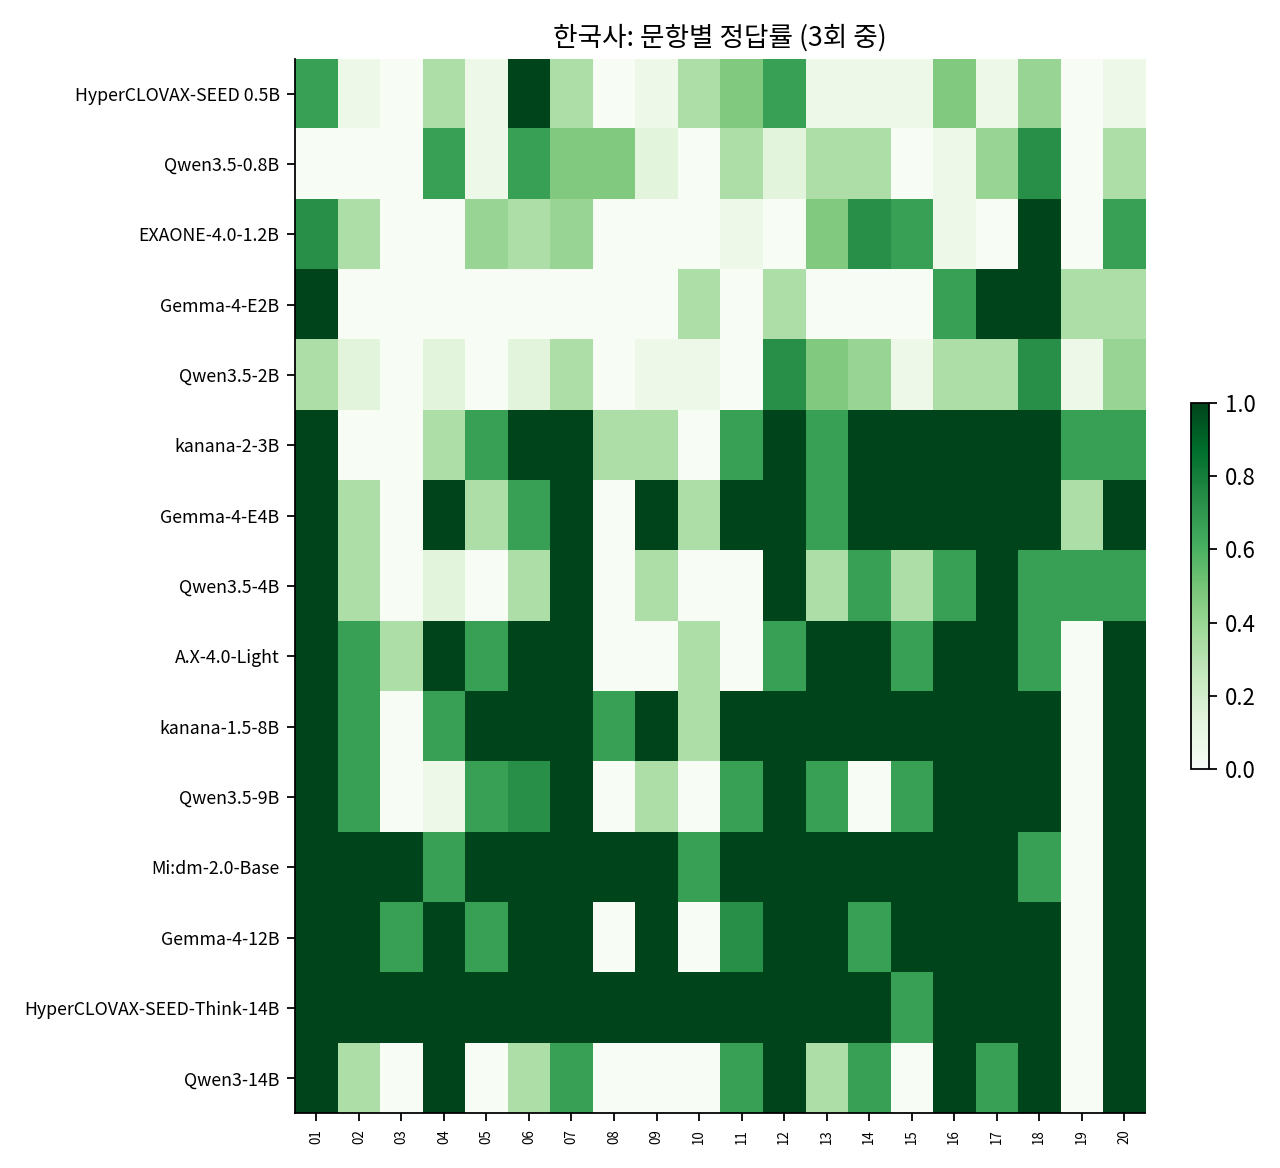
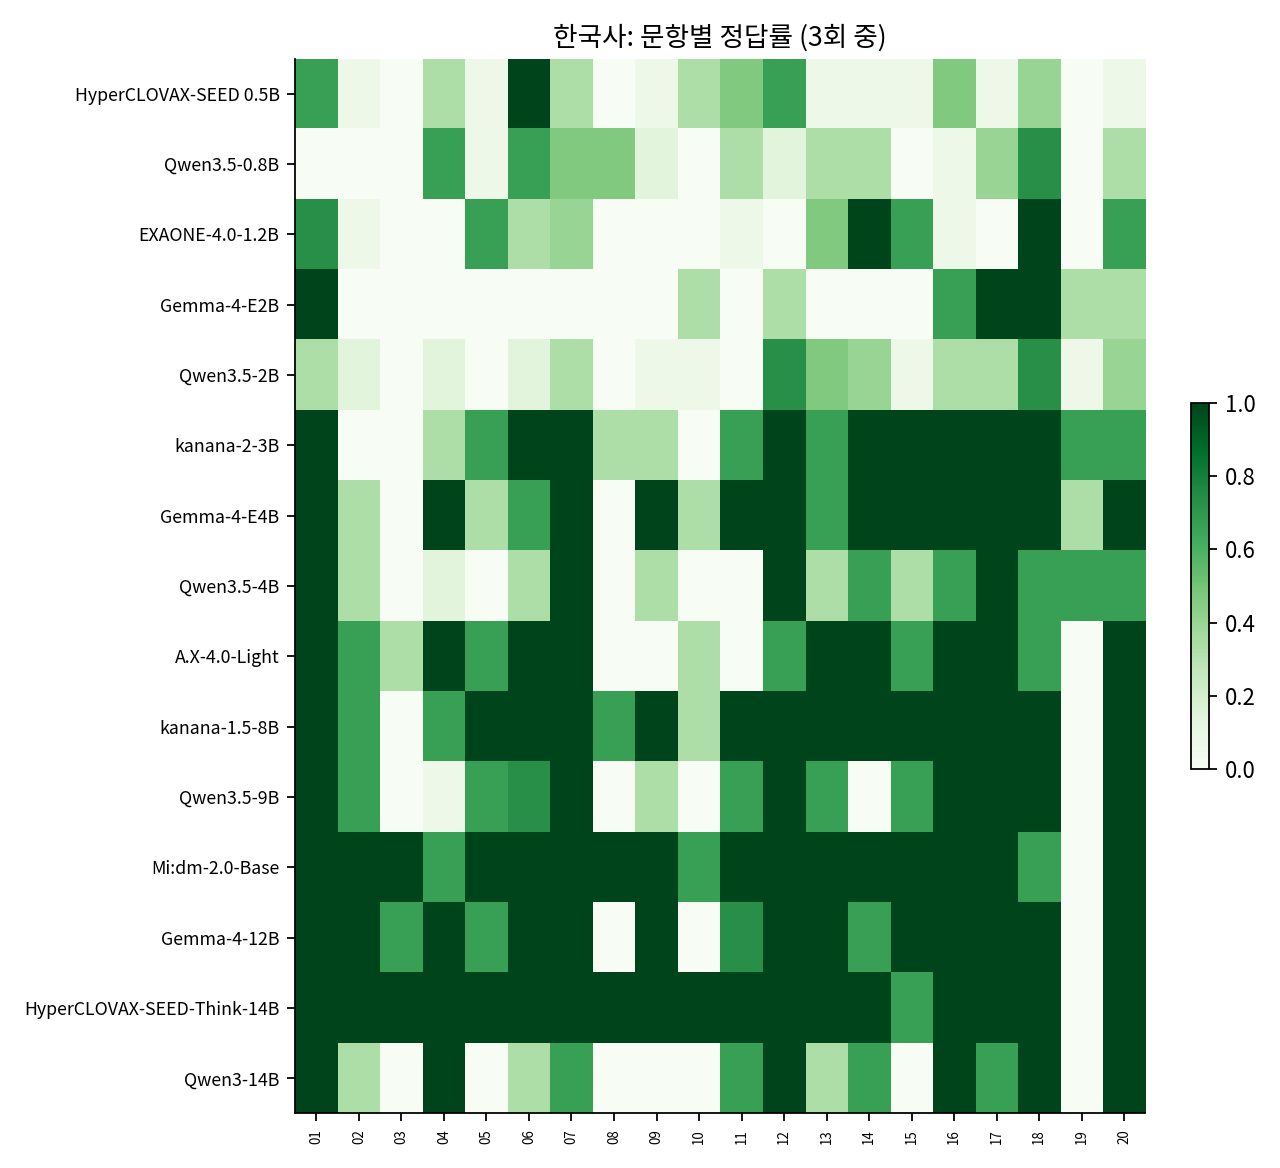
Update results (74 runs)

Changed region(s): [[0.6562, 0.1541, 0.7188, 0.2466], [0.3438, 0.1541, 0.4062, 0.2466], [0.25, 0.1541, 0.3125, 0.2466]]

diff --git a/README.md b/README.md
@@ -13,9 +13,9 @@
 - **수학**은 작은 모델도 잘 푼다. 4B 크기의 Gemma-4-E4B가 80점을 넘었다.
 - 시험지 맨 끝의 4점 단답형 고난도 문항(공통 21·22번, 선택 29·30번)은 모델 평균 정답률이 22%, 가장 잘 푼 모델도 67%에 그쳤다.
 - **국어가 수학보다 어렵다.** 2B 이상 모델 기준으로 국어 정답률이 수학보다 평균 11%p 낮다. 2,000–4,000자 길이의 지문을 읽고 선택지 사이의 미묘한 차이를 가려내는 일이 작은 모델에게는 계산보다 어렵다.
-- **국산 모델**: HyperCLOVAX-SEED 0.5B(국어 18점, 수학 19점, 영어 28점, 한국사 12점), EXAONE-4.0-1.2B(국어 31점, 수학 75점, 영어 63점, 한국사 15점), kanana-2-3B(국어 34점, 수학 39점, 영어 74점, 한국사 33점), A.X-4.0-Light(국어 49점, 수학 56점, 영어 83점, 한국사 32점), kanana-1.5-8B(국어 45점, 수학 42점, 영어 83점, 한국사 41점), Mi:dm-2.0-Base(국어 44점, 수학 54점, 영어 82점, 한국사 46점), HyperCLOVAX-SEED-Think-14B(국어 78점, 수학 79점, 영어 88점, 한국사 47점).
+- **국산 모델**: HyperCLOVAX-SEED 0.5B(국어 18점, 수학 19점, 영어 28점, 한국사 12점), EXAONE-4.0-1.2B(국어 31점, 수학 75점, 영어 63점, 한국사 16점), kanana-2-3B(국어 34점, 수학 39점, 영어 74점, 한국사 33점), A.X-4.0-Light(국어 49점, 수학 56점, 영어 83점, 한국사 32점), kanana-1.5-8B(국어 45점, 수학 42점, 영어 83점, 한국사 41점), Mi:dm-2.0-Base(국어 44점, 수학 54점, 영어 82점, 한국사 46점), HyperCLOVAX-SEED-Think-14B(국어 78점, 수학 79점, 영어 88점, 한국사 47점).
 
-> 마지막 업데이트: 2026-11-20 10:18 KST. 평가가 진행되는 동안 모델 하나가 끝날 때마다 이 페이지가 자동으로 갱신된다.
+> 마지막 업데이트: 2026-11-20 10:21 KST. 평가가 진행되는 동안 모델 하나가 끝날 때마다 이 페이지가 자동으로 갱신된다.
 
 ## 왜 소형 모델인가
 
@@ -31,7 +31,7 @@
 
 | 기기 등급 | 대략적인 기기 사양 | 4비트 가중치 크기 | 해당 모델 | 이 등급 최고 점수 (국어 / 수학 / 영어 / 한국사<sub>50점</sub>) |
 |---|---|---|---|---|
-| 보급형 스마트폰 | RAM 4–6GB | ≤1.5GB | HyperCLOVAX-SEED 0.5B, Qwen3.5-0.8B, EXAONE-4.0-1.2B, Qwen3.5-2B | 38 / 78 / 80 / 15 |
+| 보급형 스마트폰 | RAM 4–6GB | ≤1.5GB | HyperCLOVAX-SEED 0.5B, Qwen3.5-0.8B, EXAONE-4.0-1.2B, Qwen3.5-2B | 38 / 78 / 80 / 16 |
 | 중급 스마트폰 | RAM 8GB | 1.5–3.2GB | Gemma-4-E2B, kanana-2-3B, Gemma-4-E4B, Qwen3.5-4B | 77 / 90 / 93 / 37 |
 | 플래그십 스마트폰 | RAM 12–16GB | 3.2–6GB | A.X-4.0-Light, kanana-1.5-8B, Qwen3.5-9B | 88 / 93 / 91 / 41 |
 | 노트북·태블릿 | RAM 16GB 이상 | 6GB 이상 | Mi:dm-2.0-Base, Gemma-4-12B, HyperCLOVAX-SEED-Think-14B, Qwen3-14B | 92 / 93 / 94 / 47 |
@@ -90,7 +90,7 @@
 |---|---|---|---|---|---|---|---|---|---|---|---|---|---|---|---|
 | HyperCLOVAX-SEED 0.5B | 네이버 | 0.57 | 보급형 스마트폰 | 18.0 <sub>(13–25)</sub> | 18.0 <sub>(16–19)</sub> | 17.5 <sub>(14–21)</sub> | 21.3 <sub>(17–24)</sub> | 18.0 <sub>(15–21)</sub> | 28.1 <sub>(25–30)</sub> | 11.9 <sub>(8–16)</sub> | 17.7 <sub>(13–21)</sub> | 14.9 <sub>(11–19)</sub> | 10.6 <sub>(7–17)</sub> | 7.3 <sub>(6–10)</sub> | 7.3 <sub>(6–9)</sub> |
 | Qwen3.5-0.8B | 알리바바 | 0.8 | 보급형 스마트폰 | 24.4 <sub>(18–32)</sub> | 22.9 <sub>(20–28)</sub> | 36.5 <sub>(35–39)</sub> | 36.3 <sub>(33–39)</sub> | 33.5 <sub>(31–36)</sub> | 57.0 <sub>(53–62)</sub> | 13.5 <sub>(10–20)</sub> | 14.9 <sub>(9–22)</sub> | 15.7 <sub>(12–19)</sub> | 13.3 <sub>(9–17)</sub> | 12.1 <sub>(7–16)</sub> | 9.1 <sub>(7–11)</sub> |
-| EXAONE-4.0-1.2B | LG AI연구원 | 1.28 | 보급형 스마트폰 | 31.2 <sub>(28–35)</sub> | 31.5 <sub>(27–35)</sub> | 77.6 <sub>(70–82)</sub> | 72.9 <sub>(63–82)</sub> | 73.5 <sub>(71–78)</sub> | 62.7 <sub>(61–64)</sub> | 15.0 <sub>(13–18)</sub> | 19.9 <sub>(11–28)</sub> | 7.3 <sub>(3–10)</sub> | 15.1 <sub>(14–17)</sub> | 13.7 <sub>(7–21)</sub> | 13.5 <sub>(12–16)</sub> |
+| EXAONE-4.0-1.2B | LG AI연구원 | 1.28 | 보급형 스마트폰 | 31.2 <sub>(28–35)</sub> | 31.5 <sub>(27–35)</sub> | 77.6 <sub>(70–82)</sub> | 72.9 <sub>(63–82)</sub> | 73.5 <sub>(71–78)</sub> | 62.7 <sub>(61–64)</sub> | 16.1 <sub>(13–20)</sub> | 21.7 <sub>(14–28)</sub> | 6.8 <sub>(3–9)</sub> | 14.3 <sub>(12–17)</sub> | 13.7 <sub>(7–21)</sub> | 13.4 <sub>(10–16)</sub> |
 | Gemma-4-E2B | 구글 | 2.0 | 중급 스마트폰 | 67.9 <sub>(64–71)</sub> | 61.2 <sub>(59–63)</sub> | 75.0 <sub>(72–80)</sub> | 73.0 <sub>(69–77)</sub> | 76.3 <sub>(76–77)</sub> | 79.9 <sub>(78–83)</sub> | 12.3 <sub>(10–14)</sub> | 28.3 <sub>(22–33)</sub> | 12.3 <sub>(9–14)</sub> | 24.0 <sub>(21–27)</sub> | 12.7 <sub>(12–14)</sub> | 10.0 <sub>(9–12)</sub> |
 | Qwen3.5-2B | 알리바바 | 2.0 | 보급형 스마트폰 | 33.6 <sub>(31–36)</sub> | 37.7 <sub>(34–42)</sub> | 64.7 <sub>(63–66)</sub> | 59.9 <sub>(56–65)</sub> | 62.1 <sub>(61–63)</sub> | 79.7 <sub>(78–81)</sub> | 11.7 <sub>(10–14)</sub> | 20.3 <sub>(17–23)</sub> | 15.7 <sub>(14–17)</sub> | 15.6 <sub>(14–17)</sub> | 13.1 <sub>(10–15)</sub> | 15.5 <sub>(12–18)</sub> |
 | kanana-2-3B | 카카오 | 3.0 | 중급 스마트폰 | 32.5 <sub>(30–34)</sub> | 36.0 <sub>(29–40)</sub> | 42.6 <sub>(29–54)</sub> | 38.9 <sub>(28–51)</sub> | 36.3 <sub>(25–49)</sub> | 73.6 <sub>(68–80)</sub> | 33.3 <sub>(27–38)</sub> | 28.3 <sub>(20–33)</sub> | 19.7 <sub>(17–24)</sub> | 12.4 <sub>(10–14)</sub> | 15.7 <sub>(15–16)</sub> | 13.0 <sub>(10–18)</sub> |
@@ -163,7 +163,7 @@
 |---|---|---|---|---|---|
 | HyperCLOVAX-SEED 0.5B | 0.18 / 0.09 / 0.50 / 0.10 / 946 | 0.20 / 0.10 / 0.59 / 0.09 / 1165 | 0.30 / 0.23 / 0.41 / 0.10 / 1116 | 0.26 / 0.22 / 0.22 / 0.00 / 293 | 0.23 / 0.18 / 0.25 / 0.02 / 411 |
 | Qwen3.5-0.8B | 0.23 / 0.14 / 0.46 / 0.46 / 12622 | 0.37 / 0.28 / 0.59 / 0.54 / 13733 | 0.58 / 0.54 / 0.18 / 0.18 / 9809 | 0.26 / 0.22 / 0.18 / 0.20 / 9089 | 0.26 / 0.22 / 0.19 / 0.19 / 10451 |
-| EXAONE-4.0-1.2B | 0.30 / 0.29 / 0.04 / 0.01 / 1520 | 0.72 / 0.70 / 0.18 / 0.14 / 6924 | 0.64 / 0.61 / 0.06 / 0.00 / 1123 | 0.29 / 0.27 / 0.13 / 0.03 / 1631 | 0.29 / 0.28 / 0.03 / 0.01 / 2341 |
+| EXAONE-4.0-1.2B | 0.30 / 0.29 / 0.04 / 0.01 / 1520 | 0.72 / 0.70 / 0.18 / 0.14 / 6924 | 0.64 / 0.61 / 0.06 / 0.00 / 1123 | 0.31 / 0.27 / 0.13 / 0.03 / 1631 | 0.29 / 0.28 / 0.03 / 0.01 / 2341 |
 | Gemma-4-E2B | 0.59 / 0.58 / 0.00 / 0.00 / 1897 | 0.71 / 0.71 / 0.00 / 0.00 / 3471 | 0.81 / 0.81 / 0.00 / 0.00 / 1278 | 0.25 / 0.25 / 0.00 / 0.00 / 1140 | 0.37 / 0.37 / 0.00 / 0.00 / 1870 |
 | Qwen3.5-2B | 0.34 / 0.29 / 0.23 / 0.25 / 12221 | 0.63 / 0.59 / 0.37 / 0.37 / 10424 | 0.81 / 0.81 / 0.04 / 0.05 / 7274 | 0.24 / 0.18 / 0.27 / 0.27 / 10510 | 0.33 / 0.28 / 0.21 / 0.21 / 10868 |
 | kanana-2-3B | 0.34 / 0.33 / 0.00 / 0.00 / 176 | 0.39 / 0.39 / 0.01 / 0.00 / 596 | 0.74 / 0.74 / 0.00 / 0.00 / 135 | 0.67 / 0.67 / 0.00 / 0.00 / 168 | 0.36 / 0.36 / 0.01 / 0.00 / 256 |
